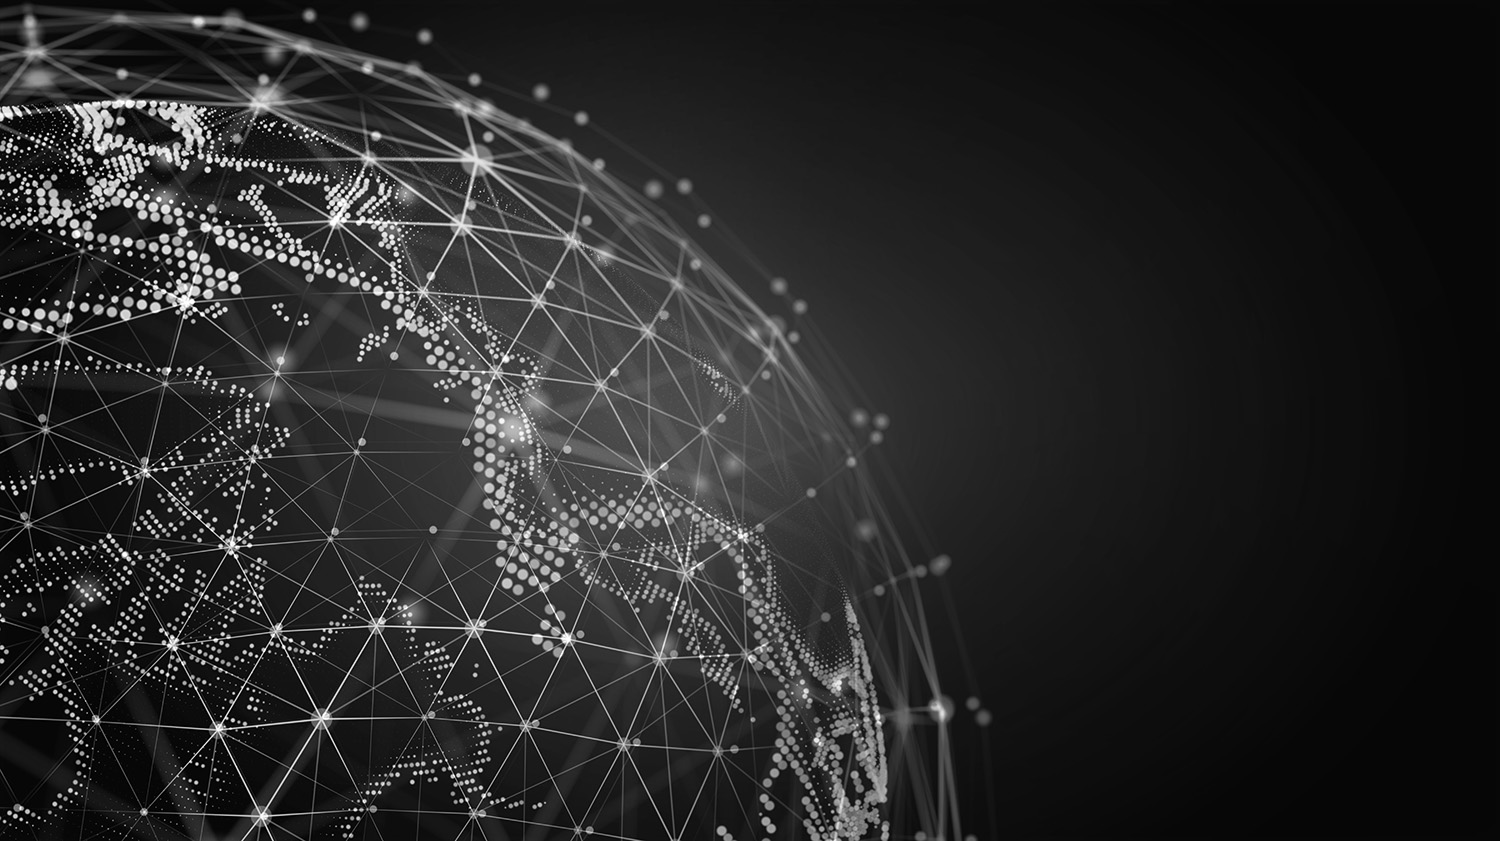
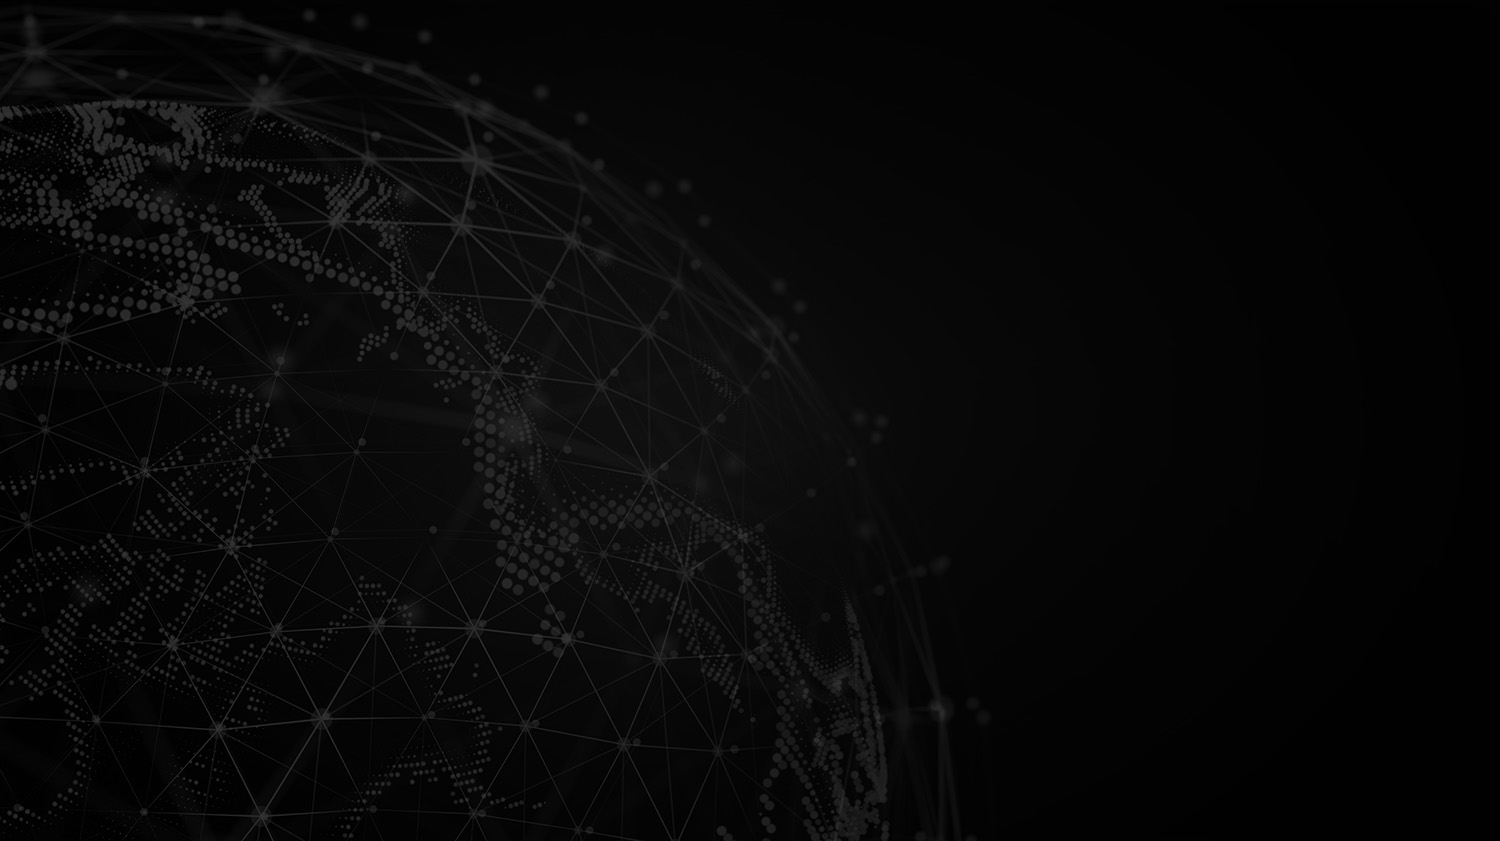
background updates

diff --git a/src/css/site-styles.css b/src/css/site-styles.css
@@ -127,7 +127,7 @@
   --img-mask-bordered-hexagon: url("images/homepage/bordered-hexagon-mask-light.svg");
   --img-bg-card: hsl(218, 14%, 70%);
   /* section backgrounds */
-  --bg-section-masthead: url("../img/bg/bg-generic-14-light.jpg");
+  --bg-section-masthead: url("../img/bg/bg-generic-15-light.jpg");
   --bg-section-footer: #0b070c;
   --txt-font-stack-headings: ShentoxMedium, Chakra Petch, sans-serif;
   --txt-font-stack-content: Work Sans, sans-serif;
@@ -216,7 +216,7 @@
     --img-mask-bordered-hexagon: url("images/homepage/bordered-hexagon-mask-dark.svg");
     --img-bg-card: hsl(240, 1%, 26%);
     /* section backgrounds */
-    --bg-section-masthead: url("../img/bg/bg-generic-14-dark.jpg");
+    --bg-section-masthead: url("../img/bg/bg-generic-15-dark.jpg");
     --bg-section-footer: #d0d0cb;
   }
 }
@@ -286,7 +286,7 @@
   --img-mask-bordered-hexagon: url("images/homepage/bordered-hexagon-mask-light.svg");
   --img-bg-card: hsl(218, 14%, 70%);
   /* section backgrounds */
-  --bg-section-masthead: url("../img/bg/bg-generic-14-light.jpg");
+  --bg-section-masthead: url("../img/bg/bg-generic-15-light.jpg");
   --bg-section-footer: #0b070c;
 }
 
@@ -360,7 +360,7 @@
   --img-mask-bordered-hexagon: url("images/homepage/bordered-hexagon-mask-dark.svg");
   --img-bg-card: hsl(240, 1%, 26%);
   /* section backgrounds */
-  --bg-section-masthead: url("../img/bg/bg-generic-14-dark.jpg");
+  --bg-section-masthead: url("../img/bg/bg-generic-15-dark.jpg");
   --bg-section-footer: #d0d0cb;
 }
 
@@ -7080,7 +7080,7 @@ h2.homepage-section-title {
   background: var(--bg-section-masthead);
   background-size: cover;
   background-repeat: no-repeat;
-  background-position: top right;
+  background-position: top left;
   text-transform: uppercase;
   display: grid;
   place-items: center;
@@ -7095,15 +7095,18 @@ h2.homepage-section-title {
 }
 #masthead .hero-content-temp h2 {
   font-size: 3rem;
+  text-shadow: 1px 1px 2px var(--color-text-shadow);
 }
 #masthead .hero-content-temp h3 {
   font-size: 3rem;
   color: var(--color-text);
+  text-shadow: 1px 1px 2px var(--color-text-shadow);
 }
 #masthead .hero-content-temp h4 {
   font-size: 1.1rem;
   font-weight: 200;
   padding-top: 5.5rem;
+  text-shadow: 1px 1px 2px var(--color-text-shadow);
 }
 #masthead .hero-content {
   display: grid;

diff --git a/src/Scss/pages/homepage/_section-masthead.scss b/src/Scss/pages/homepage/_section-masthead.scss
@@ -2,7 +2,7 @@
   background: var(--bg-section-masthead);
   background-size: cover;
   background-repeat: no-repeat;
-  background-position: top right;
+  background-position: top left;
 
    text-transform: uppercase;
    display: grid;
@@ -16,17 +16,21 @@
     text-align: center;
     padding-top: 5.5rem;
     padding-bottom: 2.5rem;
+
     h2 {
       font-size: 3rem;
+    text-shadow: 1px 1px 2px var(--color-text-shadow);
     }
     h3 {
       font-size: 3rem;
       color: var(--color-text);
+    text-shadow: 1px 1px 2px var(--color-text-shadow);
     }
     h4 {
       font-size: 1.1rem;
       font-weight: 200;
       padding-top: 5.5rem;
+    text-shadow: 1px 1px 2px var(--color-text-shadow);
     }
    }
    .hero-content {

diff --git a/src/Scss/variables/_03-theme-dark.scss b/src/Scss/variables/_03-theme-dark.scss
@@ -273,7 +273,7 @@ $img-card-bg-fancy-1-dark: url('images/cards/bg-fancy-card-1-dark.jpg');
 $img-mask-bordered-hexagon-dark: url('images/homepage/bordered-hexagon-mask-dark.svg');
 
 /* section backgrounds */
-$bg-section-masthead-dark: url('../img/bg/bg-generic-14-dark.jpg');
+$bg-section-masthead-dark: url('../img/bg/bg-generic-15-dark.jpg');
 $bg-section-footer-dark: #d0d0cb;
 $bg-section-featured-tech-dark: #323242;
 $txt-section-featured-tech-heading-dark: #afff00;

diff --git a/src/Scss/variables/_03-theme-light.scss b/src/Scss/variables/_03-theme-light.scss
@@ -91,7 +91,7 @@ $card-fg-theme-complementary-4: $not-used;
 $txt-h2-shadow: 1px 1px 4px #f5f7f6;
 
 /* images */
-$bg-section-masthead: url('../img/bg/bg-generic-14-light.jpg');
+$bg-section-masthead: url('../img/bg/bg-generic-15-light.jpg');
 $img-navbar-logo: url('images/layout/vtsn-logo-navbar-light.svg');
 $img-card-bg-fancy-1: url('images/cards/bg-fancy-card-1-light.jpg');
 $img-mask-bordered-hexagon: url('images/homepage/bordered-hexagon-mask-light.svg');
